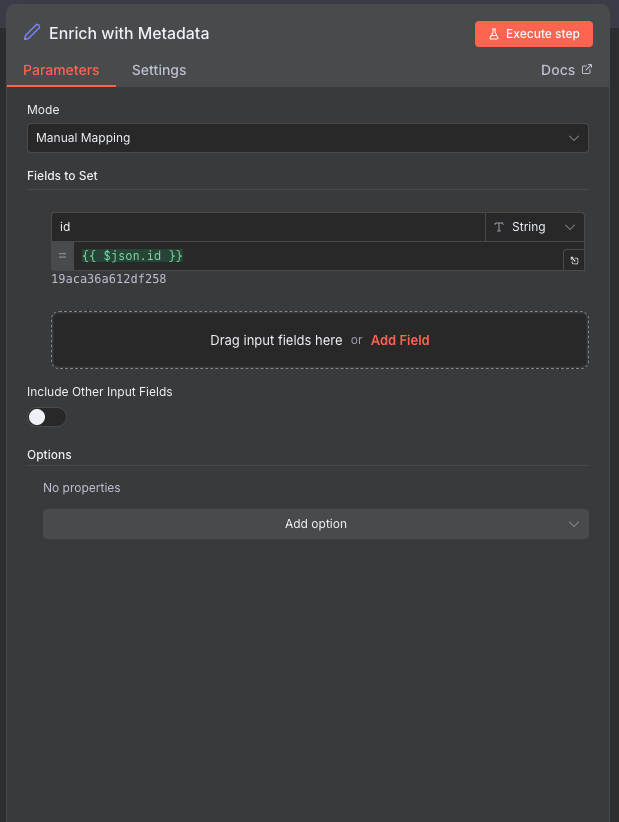
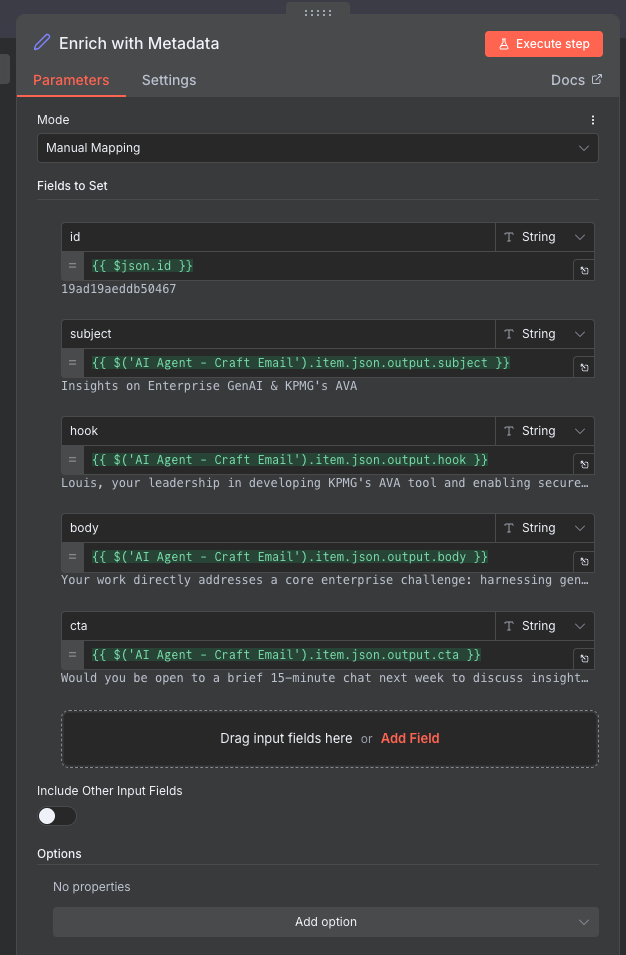
docs: Update Exercise 2 Enrich with Metadata to match actual interface
Replaced outdated metadata enrichment configuration with current n8n interface:

Before:
- JavaScript-style configuration
- 11+ fields including timestamp, workflow_id, sent_status
- Complex field mapping for analytics logging

After (matches screenshot):
- Mode: "Manual Mapping"
- 5 simple fields: id, subject, hook, body, cta
- Clear table format showing field names and expressions
- Focused on extracting structured email components

Updated screenshot:
- Replaced 08-enrich-metadata-config.png with current interface
- Shows Manual Mapping mode clearly
- Displays all 5 fields with their expressions visible

Benefits:
- Instructions match visible n8n interface
- Simpler configuration for students to follow
- Clear explanation of what's being extracted
- Table format easier to read than code block

🤖 Generated with [Claude Code](https://claude.com/claude-code)

diff --git a/docs/exercises/02-cold-email-automation/part-b-workflow.md b/docs/exercises/02-cold-email-automation/part-b-workflow.md
@@ -462,34 +462,27 @@ Use the same Gemini model (it's already configured from the first agent).
 ### 6.2 Configure Field Assignments
 
 {: .note }
-> **Why Enrich?** We need to combine data from multiple nodes into a single record for our analytics spreadsheet.
+> **Why Enrich?** We're extracting the structured email components (subject, hook, body, cta) from the AI agent's output to use in Gmail.
 
-Add these field assignments:
+1. **Mode**: "Manual Mapping"
+2. Add these field assignments in **Fields to Set**:
 
 {% raw %}
 
-```javascript
-// Prospect Information
-timestamp: {{ new Date().toISOString() }}
-prospect_name: {{ $('On form submission').item.json.Name }}
-prospect_email: {{ $('On form submission').item.json.Email }}
-company: {{ $('On form submission').item.json.Company }}
-
-// Research & Email Content
-research_summary: {{ $('AI Agent - Research Prospect').item.json.output }}
-email_subject: {{ $('AI Agent - Craft Email').item.json.output.subject }}
-email_hook: {{ $('AI Agent - Craft Email').item.json.output.hook }}
-email_body: {{ $('AI Agent - Craft Email').item.json.output.body }}
-email_cta: {{ $('AI Agent - Craft Email').item.json.output.cta }}
-
-// Workflow Metadata
-workflow_id: {{ $execution.id }}
-sent_status: "sent"
-```
+| Field Name | Value |
+|------------|-------|
+| **id** | `{{ $json.id }}` |
+| **subject** | `{{ $('AI Agent - Craft Email').item.json.output.subject }}` |
+| **hook** | `{{ $('AI Agent - Craft Email').item.json.output.hook }}` |
+| **body** | `{{ $('AI Agent - Craft Email').item.json.output.body }}` |
+| **cta** | `{{ $('AI Agent - Craft Email').item.json.output.cta }}` |
 
 {% endraw %}
 
 ![Metadata Enrichment Configuration](./images/08-enrich-metadata-config.png)
+
+{: .tip }
+> **What's Happening?** The AI agent returns a structured JSON object with separate fields. We're splitting these out so Gmail can access each part individually.
 
 ---
 
